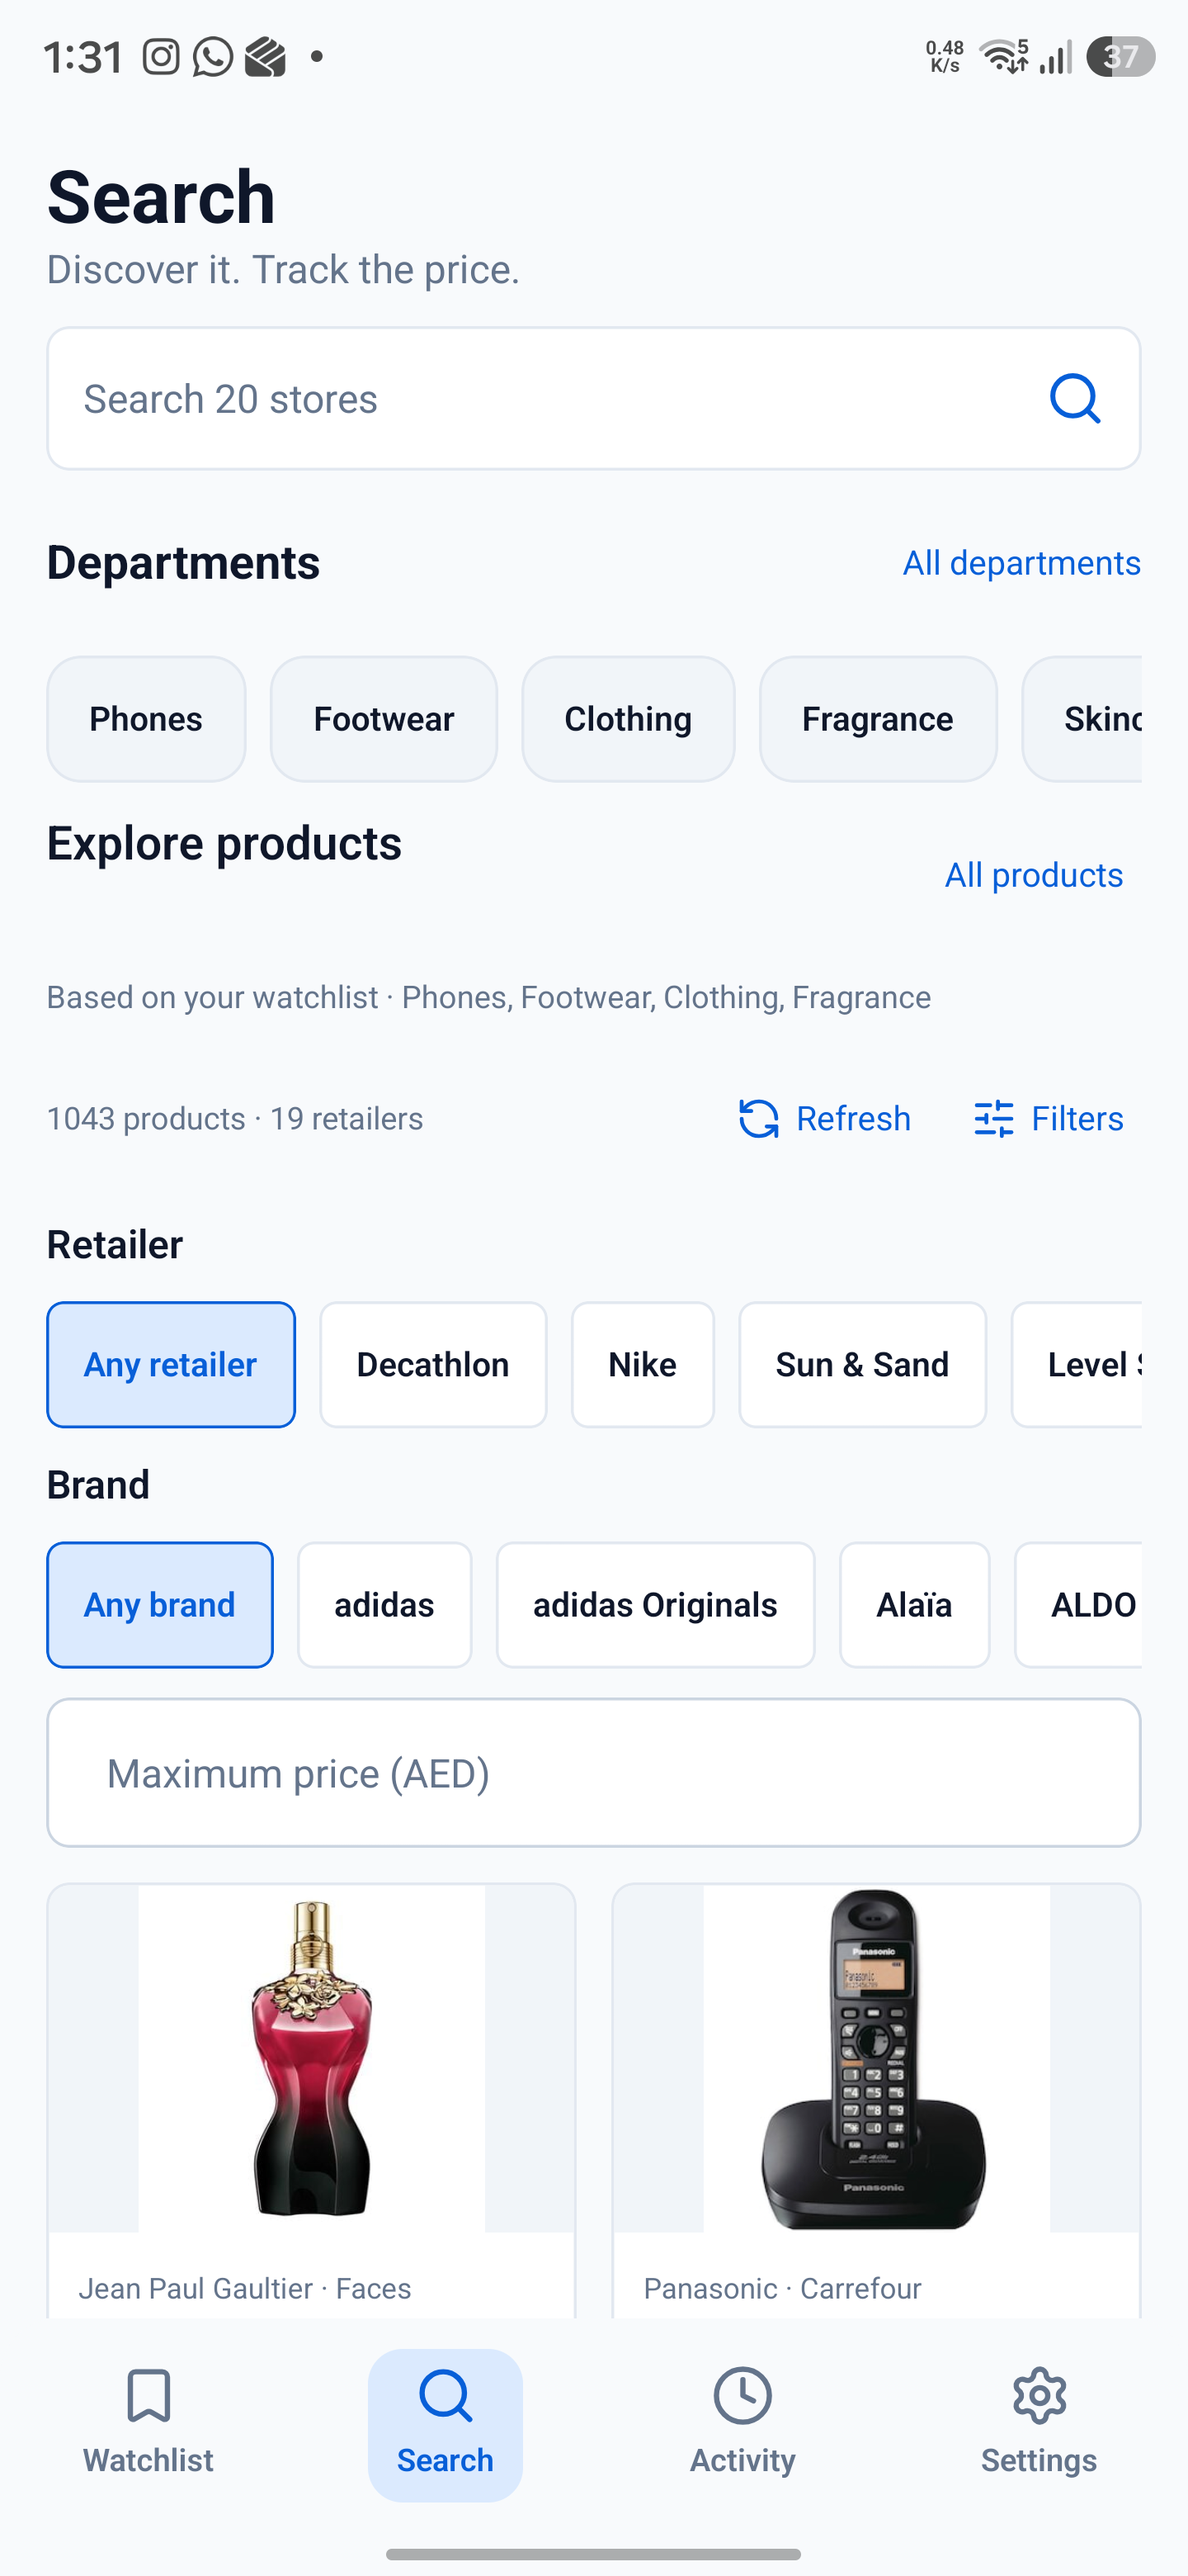
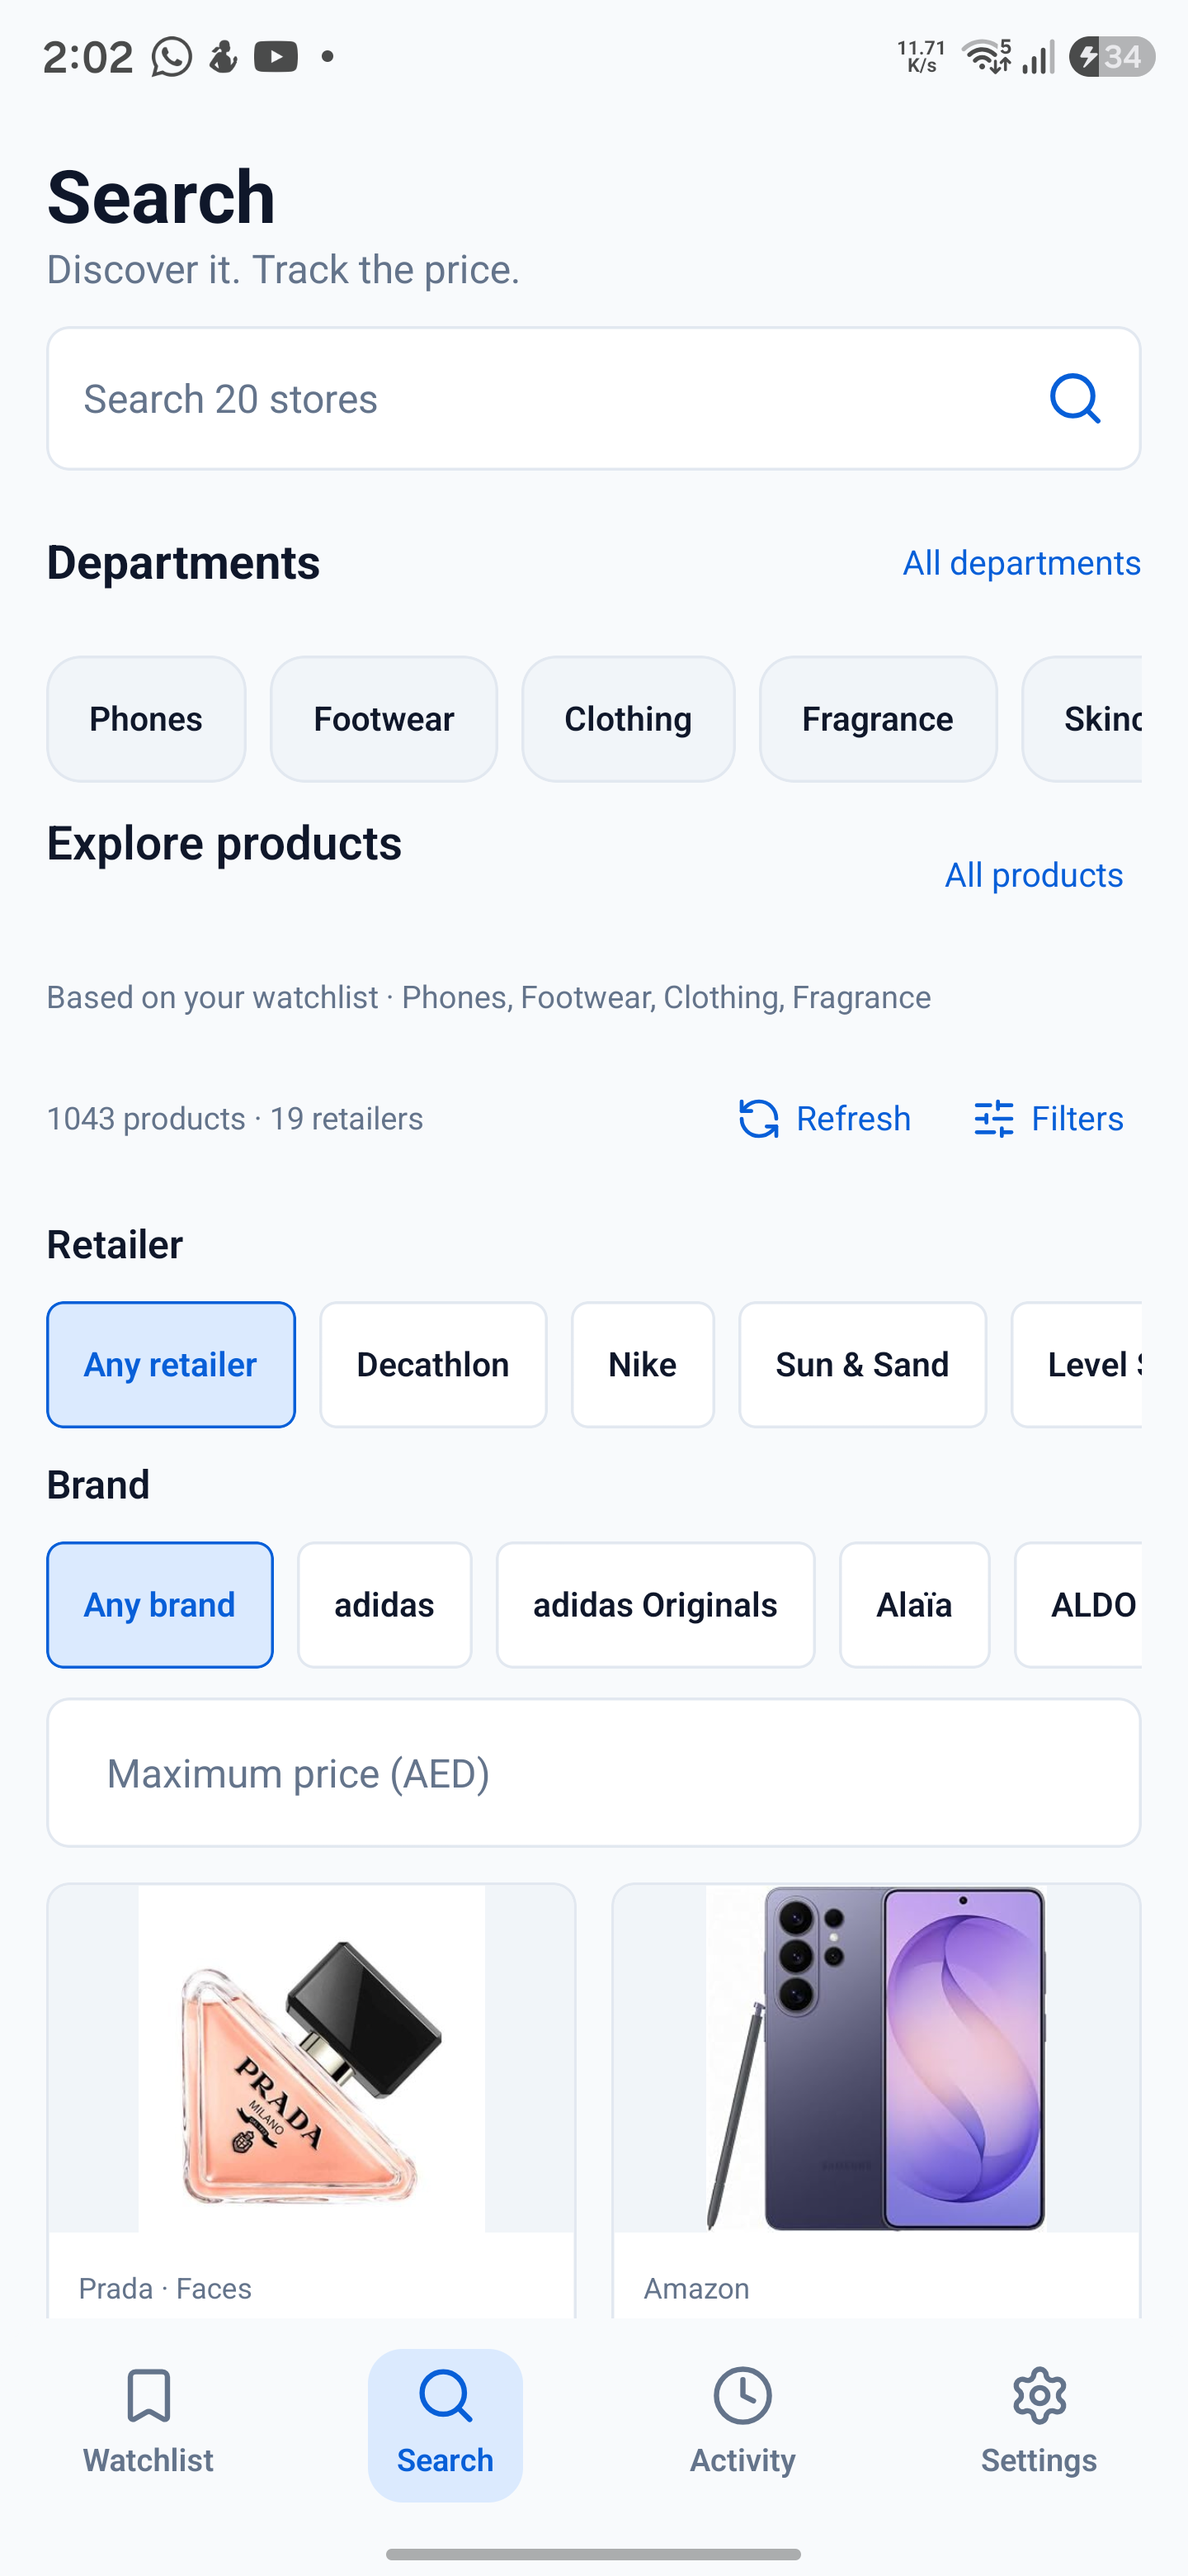
style: align shared inputs with the Watchlist surface language

diff --git a/src/components/AppTextInput.test.tsx b/src/components/AppTextInput.test.tsx
@@ -51,7 +51,7 @@ describe('AppTextInput', () => {
 
   it('marks focus and errors on the field and announces the error', () => {
     const tree = render(<AppTextInput value="" onChangeText={jest.fn()} />);
-    expect(fieldBorderColor(tree)).toBe(colors.borderStrong);
+    expect(fieldBorderColor(tree)).toBe(colors.border);
     act(() => { tree.root.findByType(TextInput).props.onFocus({}); });
     expect(fieldBorderColor(tree)).toBe(colors.primary);
     act(() => { tree.root.findByType(TextInput).props.onBlur({}); });

diff --git a/src/components/AppTextInput.tsx b/src/components/AppTextInput.tsx
@@ -92,7 +92,7 @@ const styles = StyleSheet.create({
     gap: spacing.sm,
     paddingHorizontal: spacing.lg,
     borderWidth: 1,
-    borderColor: colors.borderStrong,
+    borderColor: colors.border,
     borderRadius: radius.md,
     backgroundColor: colors.surface
   },

diff --git a/design-qa.md b/design-qa.md
@@ -17,9 +17,10 @@ Remaining for later passes: the price-history chart keeps its own change indicat
 
 `src/components/AppTextInput.tsx` now implements the agreed input role and replaces the raw `TextInput`s across the app:
 
-- 52-high bordered field, radius 8, body-role text with the same manual 1.3 cap as `AppText`, primary border while focused, red border plus an announced message for validation errors, optional label/hint and leading/trailing accessories. The `bare` variant keeps an input inside a custom search row while still sharing typography, placeholder colour and scaling.
+- 52-high bordered field, radius 8, 1px soft `colors.border` border matching the Watchlist chips and cards (primary border while focused, red on error), body-role text with the same manual 1.3 cap as `AppText`, an announced message for validation errors, optional label/hint and leading/trailing accessories. The `bare` variant keeps an input inside a custom search row while still sharing typography, placeholder colour and scaling.
 - Migrated screens: Add Product (URL, folder name, target price, minimum drop), tracking settings (target price, minimum drop), Watchlist banner search, discovery search, discovery filters maximum price, the browse sheet search and the discovery brand/budget fields. No screen renders a raw `TextInput` any more.
 - Checked on the Samsung SM-S928B in the release build: [Add Product URL field](docs/assets/design-2026-11-14/add-product-url-field.png), [Watchlist banner search](docs/assets/design-2026-11-14/watchlist-search-field.png), [discovery maximum price](docs/assets/design-2026-11-14/discovery-max-price-field.png) and [browse sheet search](docs/assets/design-2026-11-14/browse-sheet-search-field.png). The 52-high fields fit the existing scroll content without overlap; the blue-banner search keeps its compact white container.
+- Design-language pass: the field surface uses the same flat white surface, soft `colors.border` and blue primary accent as the Watchlist search, filter chips and cards, rather than a heavier input-only border.
 - `src/components/AppTextInput.test.tsx` covers label/hint accessibility, the 1.3 cap, focus and error borders and messages, accessories and bare mode.
 - Review follow-up: the native input now stretches to the full field height (the field uses `alignItems: 'stretch'` and the input `textAlignVertical: 'center'`), so the whole visible field is the touch target rather than just the text strip. Device-checked by tapping the top edge of the Product URL field: it focused and showed the primary border. [screenshot](docs/assets/design-2026-11-14/input-focus-full-target.png)
 

diff --git a/DESIGN.md b/DESIGN.md
@@ -112,7 +112,7 @@ Page background is `colors.background` (#F8FAFC); inline cards are flat white (`
 
 ## Inputs
 
-Agreed input role: 52 high, radius 8, 1px border, body-role text, with the same 1.3 scaling cap as other text. **Shipped:** `AppTextInput` in `src/components/AppTextInput.tsx` implements the field role — 52-high bordered field, focused border in the primary colour, red border and announced error for invalid values, body-role text with the same manual 1.3 cap as `AppText`, optional label, hint, leading/trailing accessories, and a `bare` variant for inputs embedded in custom search rows. Every current `TextInput` renders through it. **Intended:** compact search rows and per-category budget fields still use their own container styling; unify those containers if a future pass needs a single field rhythm everywhere.
+Agreed input role: 52 high, radius 8, 1px `colors.border` (soft, matching Watchlist chips and cards; primary when focused, red on error), body-role text, with the same 1.3 scaling cap as other text. **Shipped:** `AppTextInput` in `src/components/AppTextInput.tsx` implements the field role, including optional label, hint, leading/trailing accessories and a `bare` variant for inputs embedded in custom search rows. Every current `TextInput` renders through it. **Intended:** compact search rows and per-category budget fields still use their own container styling; unify those containers if a future pass needs a single field rhythm everywhere.
 
 ## Status
 
